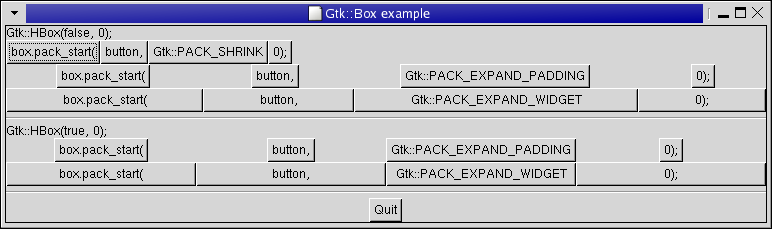
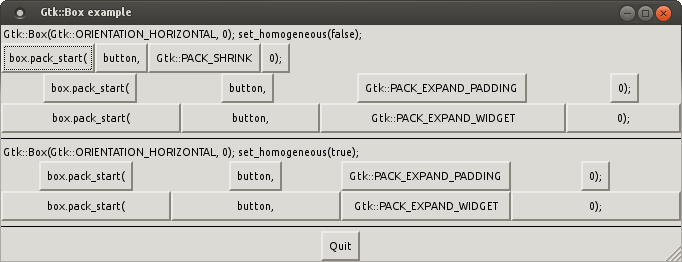
Update the description of Box to gtkmm3 status.
* docs/tutorial/C/gtkmm-tutorial-in.xml: Update the description of the Box
constructor. Mention set_homogeneous().
* docs/tutorial/C/figures/box_packing[1|2|3].png:
* examples/book/box/examplewindow.[h|cc]: Show set_homogeneous(true|false)
in the windows.
* examples/book/box/packbox.[h|cc]: Use Glib::ustring::format() instead of
sprintf().

diff --git a/examples/book/box/examplewindow.cc b/examples/book/box/examplewindow.cc
@@ -18,6 +18,7 @@
 
 #include <iostream>
 #include "examplewindow.h"
+#include "packbox.h"
 
 ExampleWindow::ExampleWindow(int which)
 : m_box1(Gtk::ORIENTATION_VERTICAL),
@@ -31,7 +32,7 @@ ExampleWindow::ExampleWindow(int which)
   {
     case 1:
     {
-      m_Label1.set_text("Gtk::Box(Gtk::ORIENTATION_HORIZONTAL, 0);");
+      m_Label1.set_text("Gtk::Box(Gtk::ORIENTATION_HORIZONTAL, 0); set_homogeneous(false);");
 
       // Align the label to the left side.  We'll discuss this function and
       // others in the section on Widget Attributes.
@@ -60,10 +61,10 @@ ExampleWindow::ExampleWindow(int which)
       // pack the separator into the vbox.  Remember each of these
       // widgets are being packed into a vbox, so they'll be stacked
       // vertically.
-      m_box1.pack_start(m_seperator1, Gtk::PACK_SHRINK, 5);
+      m_box1.pack_start(m_separator1, Gtk::PACK_SHRINK, 5);
 
       // create another new label, and show it.
-      m_Label2.set_text("Gtk::Box(Gtk::ORIENTATION_HORIZONTAL, 0);");
+      m_Label2.set_text("Gtk::Box(Gtk::ORIENTATION_HORIZONTAL, 0); set_homogeneous(true);");
       m_Label2.set_alignment(Gtk::ALIGN_START, Gtk::ALIGN_START);
       m_box1.pack_start(m_Label2, Gtk::PACK_SHRINK);
 
@@ -75,7 +76,7 @@ ExampleWindow::ExampleWindow(int which)
       pPackBox5 = Gtk::manage(new PackBox(true, 0, Gtk::PACK_EXPAND_WIDGET));
       m_box1.pack_start(*pPackBox5, Gtk::PACK_SHRINK);
 
-      m_box1.pack_start(m_seperator2, Gtk::PACK_SHRINK, 5);
+      m_box1.pack_start(m_separator2, Gtk::PACK_SHRINK, 5);
 
       break;
     }
@@ -83,7 +84,7 @@ ExampleWindow::ExampleWindow(int which)
     case 2:
     {
 
-      m_Label1.set_text("Gtk::Box(Gtk::ORIENTATION_HORIZONTAL, 10);");
+      m_Label1.set_text("Gtk::Box(Gtk::ORIENTATION_HORIZONTAL, 10); set_homogeneous(false);");
       m_Label1.set_alignment(Gtk::ALIGN_START, Gtk::ALIGN_START);
       m_box1.pack_start(m_Label1, Gtk::PACK_SHRINK);
 
@@ -93,10 +94,9 @@ ExampleWindow::ExampleWindow(int which)
       pPackBox2 = Gtk::manage(new PackBox(false, 10, Gtk::PACK_EXPAND_WIDGET));
       m_box1.pack_start(*pPackBox2, Gtk::PACK_SHRINK);
 
-      m_box1.pack_start(m_seperator1, Gtk::PACK_SHRINK, 5);
+      m_box1.pack_start(m_separator1, Gtk::PACK_SHRINK, 5);
 
-
-      m_Label2.set_text("Gtk::Box(Gtk::ORIENTATION_HORIZONTAL, 0);");
+      m_Label2.set_text("Gtk::Box(Gtk::ORIENTATION_HORIZONTAL, 0); set_homogeneous(false);");
       m_Label2.set_alignment(Gtk::ALIGN_START, Gtk::ALIGN_START);
       m_box1.pack_start(m_Label2, Gtk::PACK_SHRINK);
 
@@ -106,7 +106,7 @@ ExampleWindow::ExampleWindow(int which)
       pPackBox4 = Gtk::manage(new PackBox(false, 0, Gtk::PACK_EXPAND_WIDGET, 10));
       m_box1.pack_start(*pPackBox4, Gtk::PACK_SHRINK);
 
-      m_box1.pack_start(m_seperator2, Gtk::PACK_SHRINK, 5);
+      m_box1.pack_start(m_separator2, Gtk::PACK_SHRINK, 5);
 
       break;
     }
@@ -126,15 +126,15 @@ ExampleWindow::ExampleWindow(int which)
 
       m_box1.pack_start(*pPackBox1, Gtk::PACK_SHRINK);
 
-      // this explicitly sets the separator to 400 pixels wide by 5 pixels
-      // high.  This is so the hbox we created will also be 400 pixels wide,
+      // this explicitly sets the separator to 500 pixels wide by 5 pixels
+      // high.  This is so the hbox we created will also be 500 pixels wide,
       // and the "end" label will be separated from the other labels in the
       // hbox.  Otherwise, all the widgets in the hbox would be packed as
       // close together as possible.
-      m_seperator1.set_size_request(400, 5);
+      m_separator1.set_size_request(500, 5);
 
-      // pack the separator into ourselves
-      m_box1.pack_start(m_seperator1, Gtk::PACK_SHRINK, 5);
+      // pack the separator into the vbox.
+      m_box1.pack_start(m_separator1, Gtk::PACK_SHRINK, 5);
 
       break;
     }

diff --git a/examples/book/box/packbox.cc b/examples/book/box/packbox.cc
@@ -17,7 +17,6 @@
  */
 
 #include "packbox.h"
-#include <cstdio> //For sprintf().
 
 PackBox::PackBox(bool homogeneous, int spacing, Gtk::PackOptions options,
         int padding)
@@ -34,9 +33,7 @@ PackBox::PackBox(bool homogeneous, int spacing, Gtk::PackOptions options,
   pack_start(m_button2, options, padding);
   pack_start(m_button3, options, padding);
 
-  sprintf(padstr, "%d);", padding);
-
-  m_pbutton4 = new Gtk::Button(padstr);
+  m_pbutton4 = new Gtk::Button(Glib::ustring::format(padding) + ");");
   pack_start(*m_pbutton4, options, padding);
 }
 

diff --git a/examples/book/box/packbox.h b/examples/book/box/packbox.h
@@ -24,14 +24,12 @@
 class PackBox : public Gtk::Box
 {
 public:
-  PackBox(bool homogeneous, int spacing, Gtk::PackOptions, int padding = 0);
+  PackBox(bool homogeneous, int spacing, Gtk::PackOptions options, int padding = 0);
   virtual ~PackBox();
 
 protected:
   Gtk::Button m_button1, m_button2, m_button3;
   Gtk::Button* m_pbutton4;
-
-  char padstr[80];
 };
 
 #endif //GTKMM_EXAMPLE_PACKBOX_H

diff --git a/examples/book/box/examplewindow.h b/examples/book/box/examplewindow.h
@@ -20,7 +20,6 @@
 #define GTKMM_EXAMPLEWINDOW_H
 
 #include <gtkmm.h>
-#include "packbox.h"
 
 class ExampleWindow : public Gtk::Window
 {
@@ -40,7 +39,7 @@ protected:
 
   Gtk::Label m_Label1, m_Label2;
 
-  Gtk::Separator m_seperator1, m_seperator2, m_seperator3, m_seperator4, m_seperator5;
+  Gtk::Separator m_separator1, m_separator2;
 };
 
 #endif //GTKMM_EXAMPLEWINDOW_H
